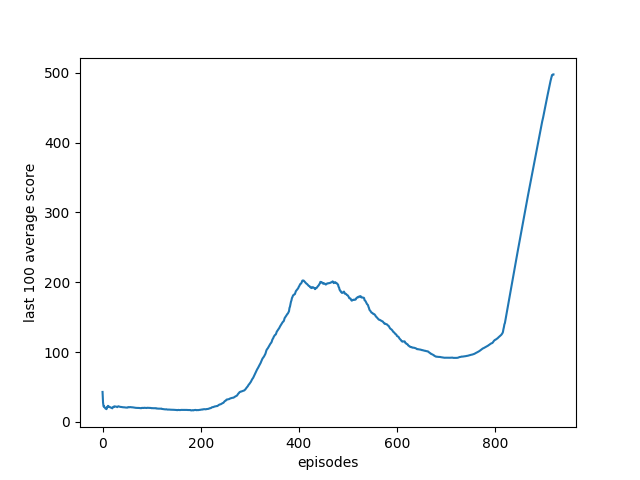
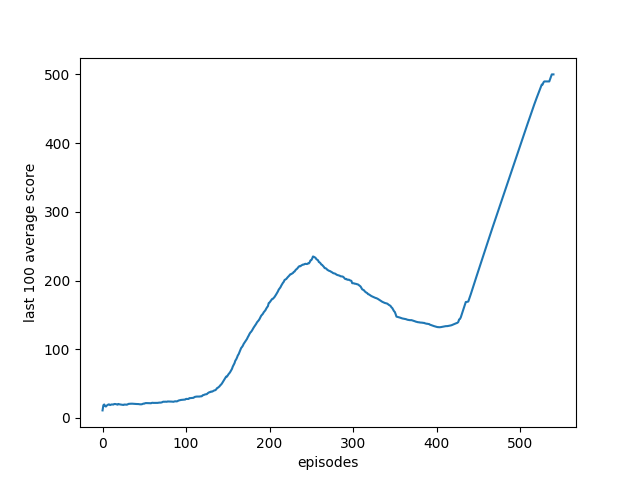
hidden size is changed 64->256 giving better training performance and stability; Pass score is updated 195->199 for v0 and 475->499 for v1

diff --git a/pole_train.py b/pole_train.py
@@ -46,10 +46,10 @@ plot_save_path = 'cartpole-v{}_{}DQN.png'.format(env_version, method)
 device = "cuda"
 if env_version == 1:
     T_max = 499  # latest step that environment allows, starting from 0
-    Pass_score = 475
+    Pass_score = 499  # usually 475
 elif env_version == 0:
     T_max = 199
-    Pass_score = 195
+    Pass_score = 199  # usually 195
 else:
     assert False, "wrong env_version, should be 0 or 1 (integer)"
 

diff --git a/pole_test.py b/pole_test.py
@@ -3,11 +3,11 @@ import torch, gym
 import numpy as np
 
 render = True
-N_ep = 10
+N_ep = 1
 env_version = 0
-method = 'double'
-# method = 'vanilla'
-net_load_path = 'net_cartpole-v{}_{}DQN.pth'.format(env_version, method)
+# method = 'double'
+method = 'vanilla'
+net_load_path = 'net/net_cartpole-v{}_{}DQN.pth'.format(env_version, method)
 net = Q_net()
 net.load_state_dict(torch.load(net_load_path))
 net.eval()

diff --git a/pole_net.py b/pole_net.py
@@ -6,7 +6,7 @@ import torch.nn.functional as F
 class Q_net(nn.Module):
     def __init__(self):
         super().__init__()
-        h = 64
+        h = 256
         self.fc1 = nn.Linear(8, h)
         self.fc2 = nn.Linear(h, h)
         # self.bn2 = nn.BatchNorm1d(h)
